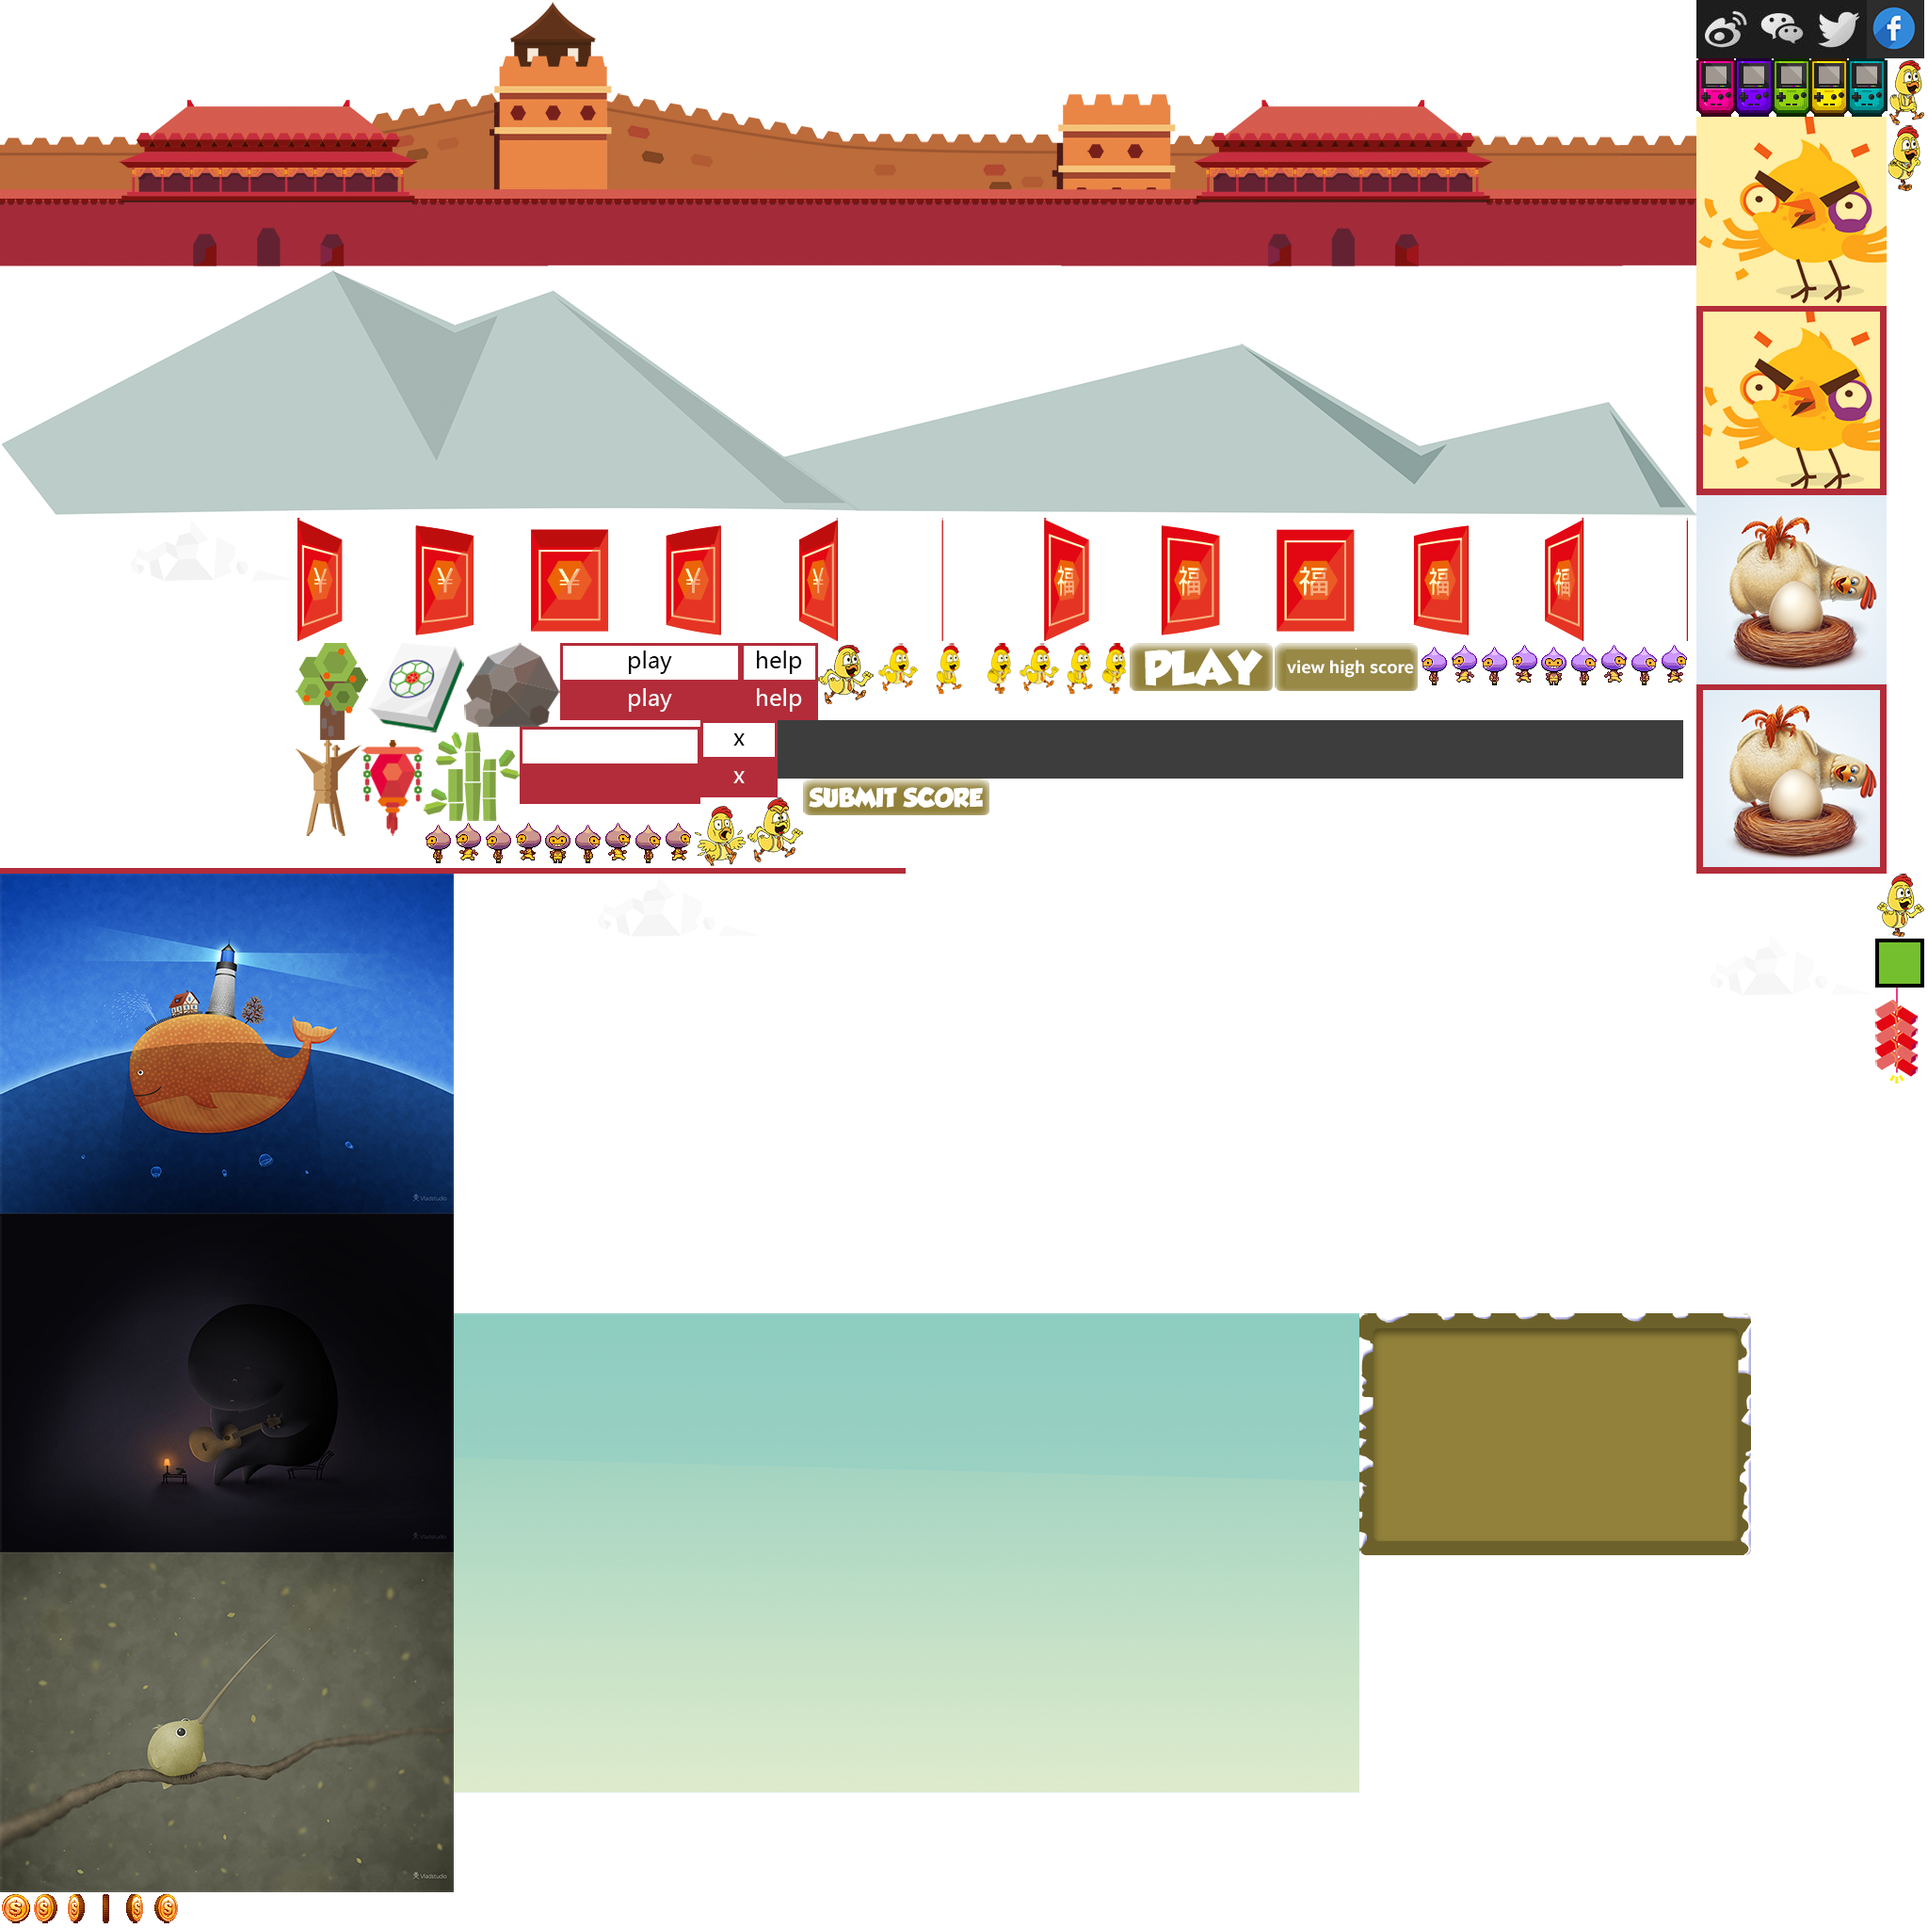
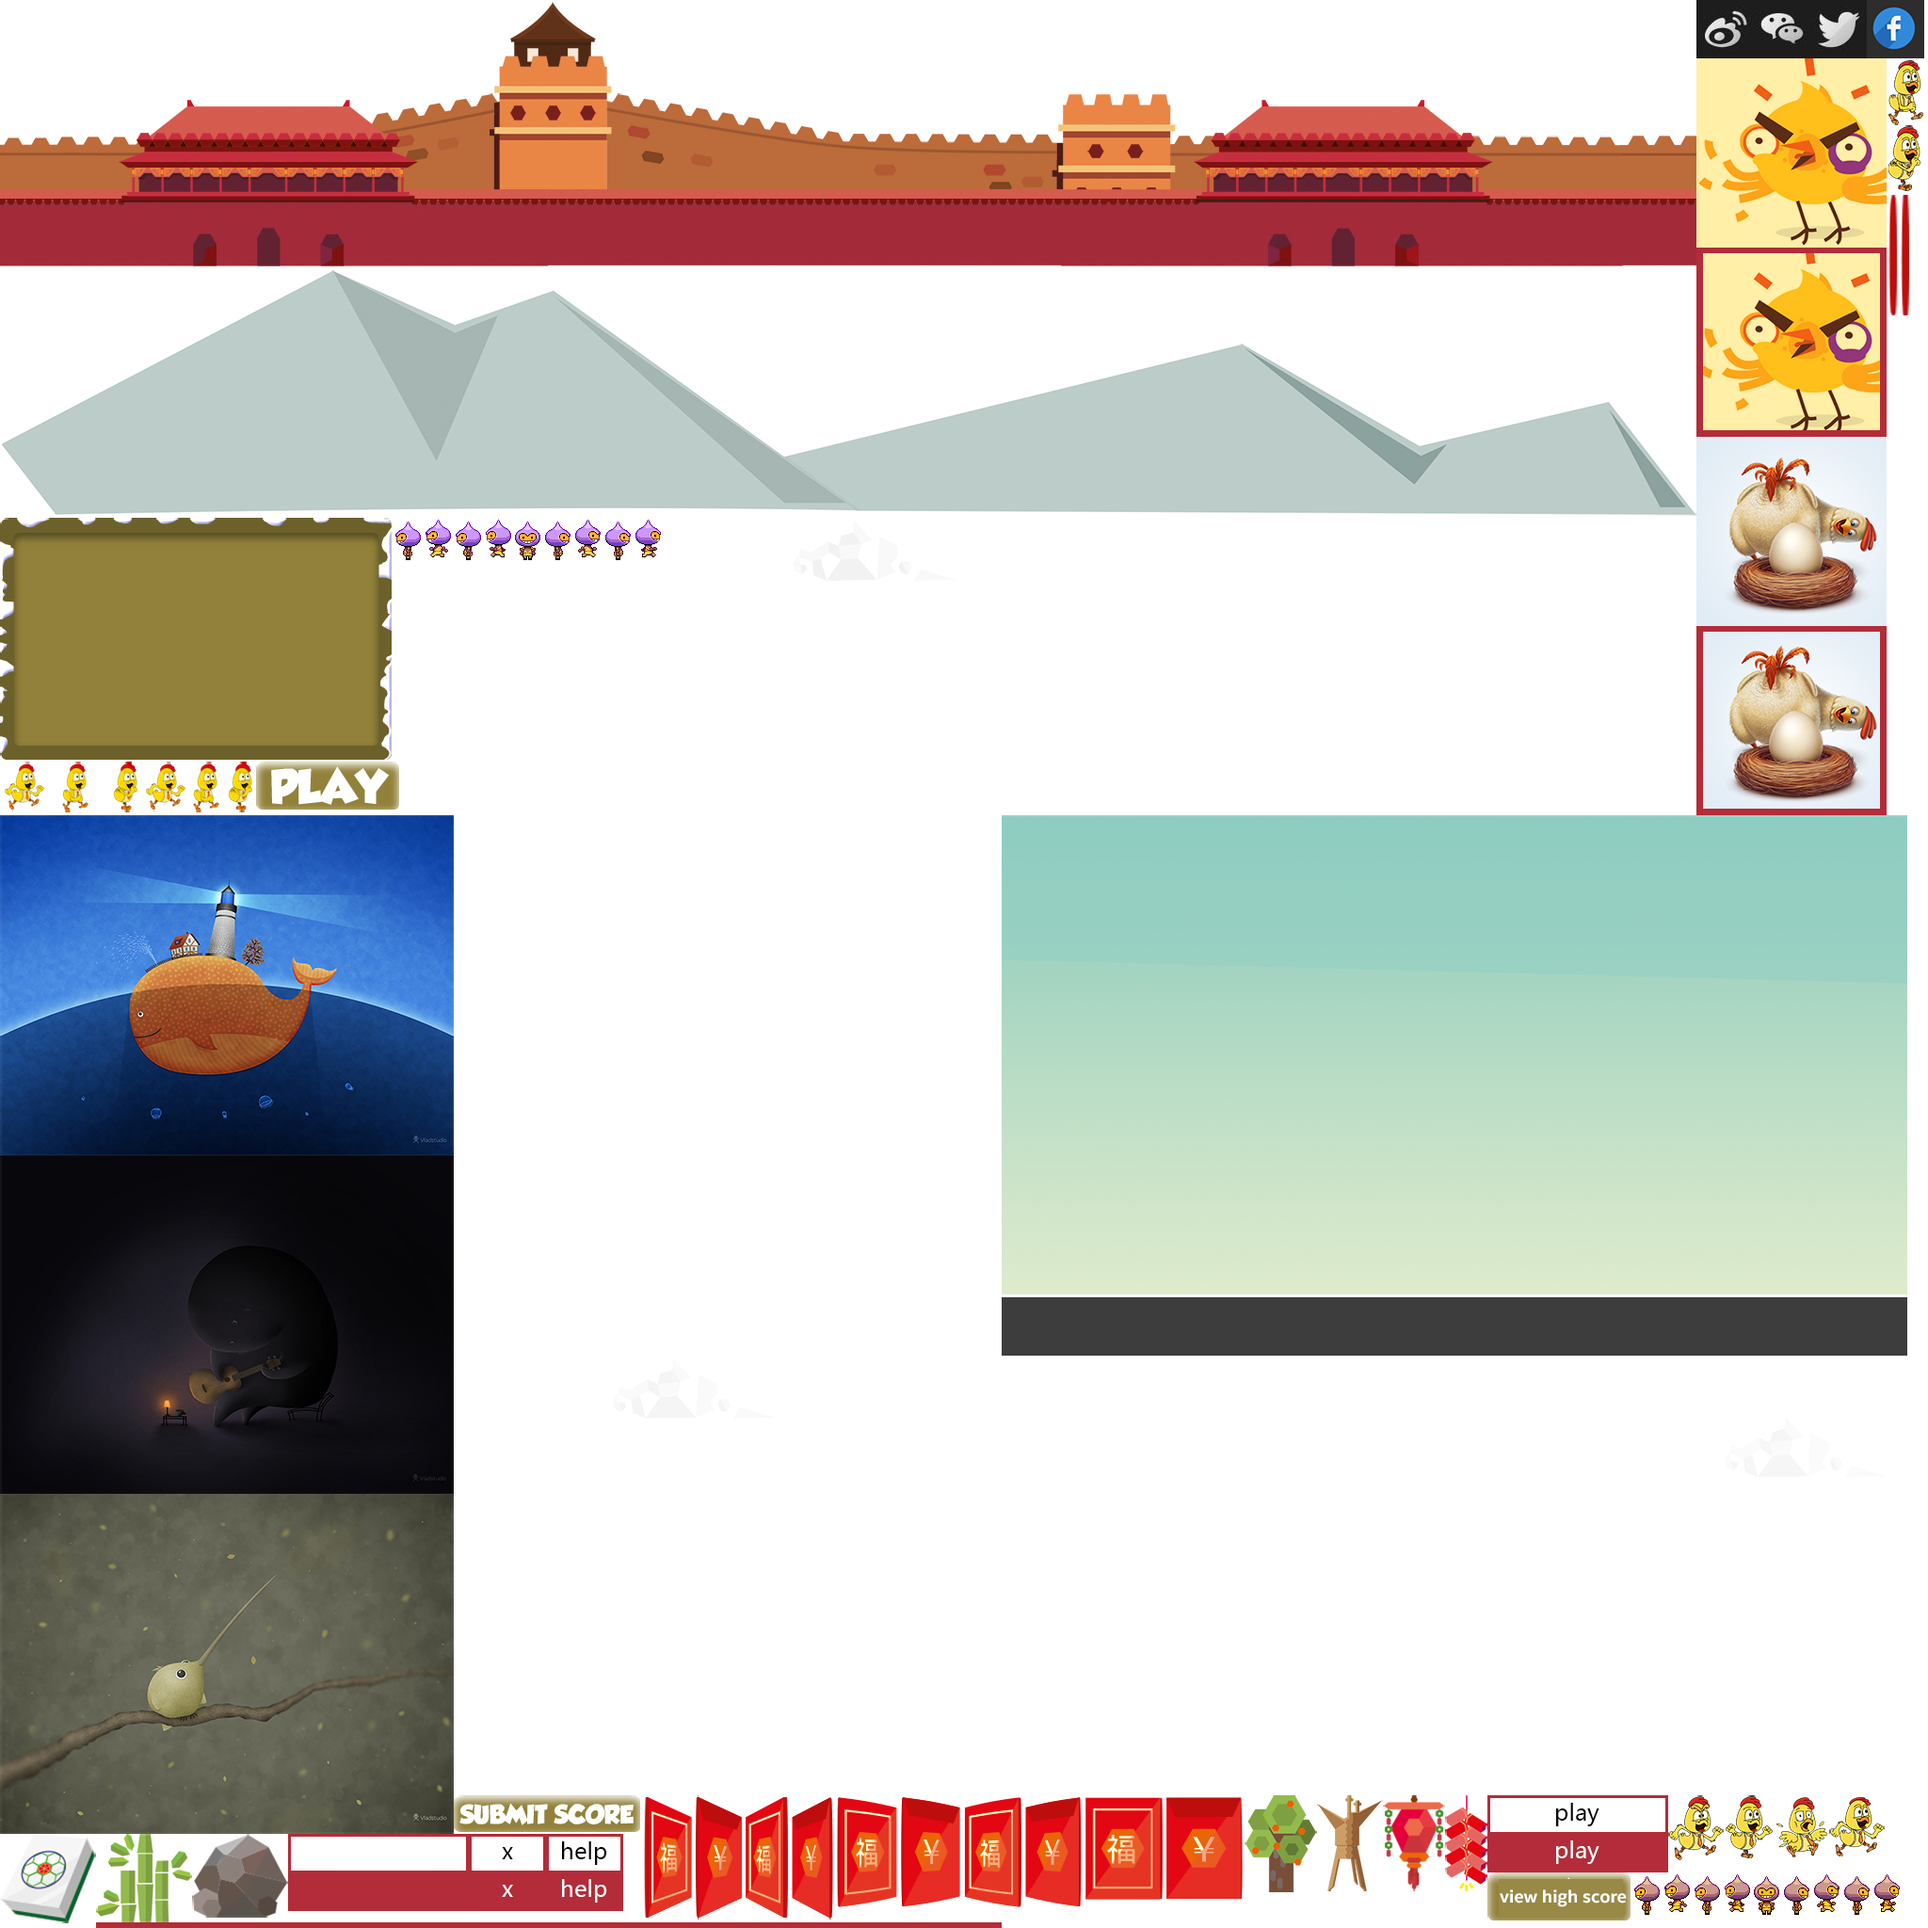
add new redPacket
deleted some unused assets

diff --git a/js/main.js b/js/main.js
@@ -130,9 +130,9 @@
         },
         //产生红包
         makeRedPacket: function () {
-            var redPacket = game.add.sprite(900, this.game.height - 248, 'redPacket');
+            var redPacket = game.add.sprite(900, this.game.height - 248, 'images', 'redPacket/012');
             redPacket.scale.setTo(0.35, 0.35);
-            redPacket.animations.add('spin', [0, 1, 2, 3, 4, 5, 6, 7, 8, 9, 10, 11], 10, true);
+            redPacket.animations.add('spin', Phaser.Animation.generateFrameNames('redPacket/', 1, 12,'',3), 10, true);
             redPacket.play('spin');
 
             redPacket.checkWorldBounds = true;
@@ -148,7 +148,6 @@
         collectPacket: function (player, packet) {
             packet.kill();
             this.score += 1;
-
             this.scoreBoard.text = INME.getCopy('score') + this.score;
             INME.Vars.score = this.score;
 
@@ -165,7 +164,6 @@
                         this.speedUp();
                         break;//跳出整个循环
                     }
-
                 }
             }
         },
